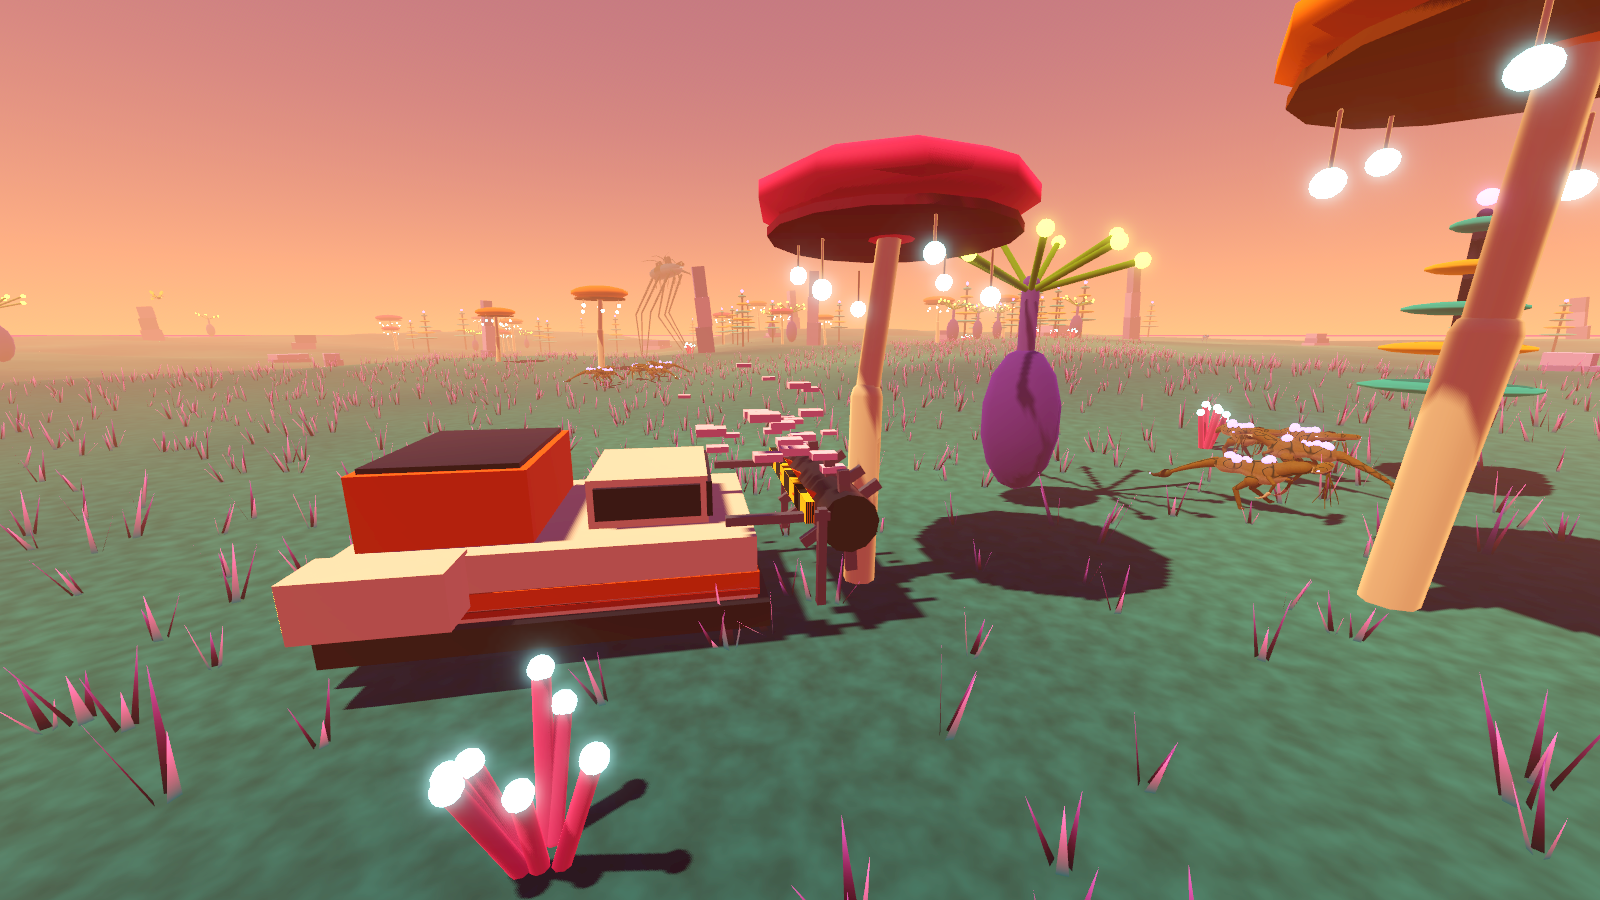
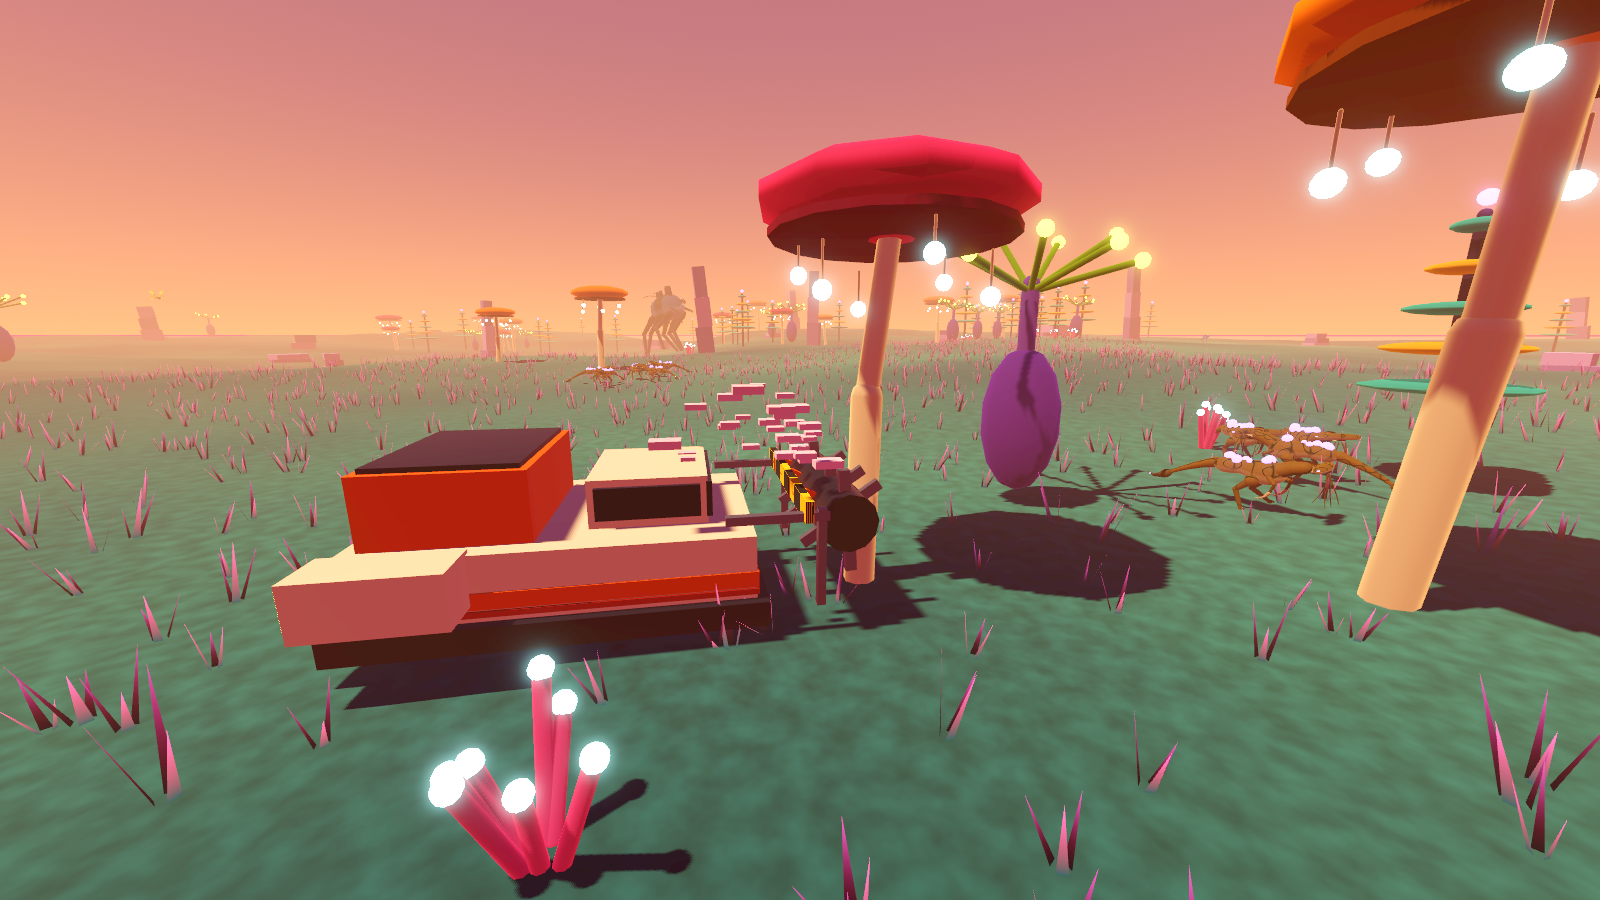
Wildlife: stilt-walker giants get mass instead of poles
Giants' stilts are capped at 1.2 times body length (1.7 for smaller
stilt-walkers), drawn twice as thick with a muscled thigh and an
armoured knee cap, under a heavier hull. Lineup and harvester shots
re-rendered.

diff --git a/prototypes/wildlife/src/Rigs/LeggedRig.cs b/prototypes/wildlife/src/Rigs/LeggedRig.cs
@@ -587,7 +587,7 @@ public sealed class LeggedRig : Rig
         {
             "walkingplant" => null,
             "skitterer" => new[] { (0f, 0.36f, 0.3f, 0f), (0.15f, 0.46f, 0.36f, 0.02f), (0.45f, 0.4f, 0.34f, 0.04f), (0.56f, 0.2f, 0.2f, 0.06f), (0.66f, 0.44f, 0.42f, 0.12f), (0.84f, 0.56f, 0.52f, 0.16f), (1f, 0.36f, 0.34f, 0.12f) },
-            "titanstilt" => new[] { (0f, 0.5f, 0.26f, 0f), (0.5f, 0.64f, 0.34f, 0.04f), (1f, 0.5f, 0.26f, 0f) },
+            "titanstilt" => new[] { (0f, 0.4f, 0.36f, 0f), (0.3f, 0.56f, 0.5f, 0.06f), (0.65f, 0.6f, 0.52f, 0.04f), (1f, 0.46f, 0.4f, 0f) },
             "tripod" => new[] { (0f, 0.42f, 0.42f, 0f), (0.5f, 0.52f, 0.5f, 0.04f), (1f, 0.42f, 0.4f, 0f) },
             "colossus" => new[] { (0f, 0.4f, 0.42f, 0.04f), (0.28f, 0.54f, 0.58f, 0.12f), (0.6f, 0.52f, 0.5f, 0.02f), (0.85f, 0.46f, 0.46f, 0.04f), (1f, 0.36f, 0.36f, 0.02f) },
             _ when hunter || s.Form == "stalker" => new[] { (0f, 0.36f, 0.42f, 0.04f), (0.25f, 0.48f, 0.55f, 0.06f), (0.58f, 0.3f, 0.34f, 0.12f), (0.82f, 0.4f, 0.4f, 0.08f), (1f, 0.3f, 0.3f, 0.06f) },
@@ -639,7 +639,7 @@ public sealed class LeggedRig : Rig
         (float rHip, float rKnee, float rAnkle, float mat) = b.LegStyle switch
         {
             LegStyle.Splayed => (t * 0.6f, t * 0.42f, t * 0.06f, Mat.Carapace),
-            LegStyle.Stilt => (t * 0.62f, t * 0.42f, t * 0.24f, Mat.Skin),
+            LegStyle.Stilt => (t * 0.66f, t * 0.46f, t * 0.3f, Mat.Skin),
             LegStyle.Roots => (t * 0.7f, t * 0.45f, t * 0.2f, Mat.Skin),
             _ => (t * 0.62f, t * 0.36f, t * 0.24f, Mat.Skin),
         };
@@ -648,6 +648,12 @@ public sealed class LeggedRig : Rig
         // A haunch of muscle where an upright leg meets the body.
         if (b.LegStyle == LegStyle.Upright) up.Add(Shape.Sphere, new Vector3(t * 1.5f, t * 1.9f, t * 1.7f), new Vector3(0, upper * 0.12f, 0), k.Base, 1f, 0f, null, 10);
         if (b.LegStyle == LegStyle.Splayed) up.Add(Shape.Sphere, Vector3.One * rKnee * 2.3f, new Vector3(0, upper, 0), k.Base.Darkened(0.2f), 0.3f, 0f, null, 8, Mat.Carapace);
+        // Stilts get a thick muscled thigh at the hip and an armoured knee cap.
+        if (b.LegStyle == LegStyle.Stilt)
+        {
+            up.Add(Shape.Sphere, new Vector3(t * 1.6f, t * 2.6f, t * 1.6f), new Vector3(0, upper * 0.18f, 0), k.Base, 1f, 0f, null, 10);
+            up.Add(Shape.Sphere, Vector3.One * rKnee * 2.4f, new Vector3(0, upper, 0), k.Accent.Lerp(k.Base, 0.5f), 0.2f, 0f, null, 10, Mat.Carapace);
+        }
         layout.Add(up);
         var lo = new Piece($"leg{i}l") { Shadow = b.Size > 1.2f };
         lo.Taper(Vector3.Zero, new Vector3(0, lower, 0), rKnee, rAnkle, legColor.Darkened(0.12f), 0.4f, 0f, mat);

diff --git a/prototypes/wildlife/src/Core/FaunaGenerator.cs b/prototypes/wildlife/src/Core/FaunaGenerator.cs
@@ -184,7 +184,8 @@ public sealed class FaunaGenerator
 
         b.LegThickness = b.LegStyle switch
         {
-            LegStyle.Stilt => b.Width * 0.1f,
+            // Stilts carry real weight: thin poles under a giant read as broken, not menacing.
+            LegStyle.Stilt => b.Width * (form.Plan == BodyPlan.Giant ? 0.2f : 0.13f),
             LegStyle.Splayed => b.Width * 0.11f,
             LegStyle.Roots => b.Width * 0.09f,
             _ => b.Width * 0.25f,
@@ -536,6 +537,12 @@ public static class FaunaQuality
         _ => (0.13f, 0.36f),
     };
 
+    /// <summary>
+    /// Longest legs allowed, as a multiple of body length. Stilts may be long on a small body,
+    /// but a giant on stilts that outreach its own length is a tiny body on poles.
+    /// </summary>
+    public static float MaxLeg(BodyPlan plan, LegStyle style) => style == LegStyle.Stilt ? (plan == BodyPlan.Giant ? 1.2f : 1.7f) : 1.25f;
+
     public static void Clamp(FormDef form, Proportions b)
     {
         float L = b.Size;
@@ -545,8 +552,7 @@ public static class FaunaQuality
         {
             b.Width = Math.Clamp(b.Width, 0.25f * L, 0.8f * L);
             b.Height = Math.Clamp(b.Height, 0.22f * L, 0.75f * L);
-            float maxLeg = b.LegStyle == LegStyle.Stilt ? 2.4f : 1.25f;
-            b.LegLength = Math.Clamp(b.LegLength, 0.25f * L, maxLeg * L);
+            b.LegLength = Math.Clamp(b.LegLength, 0.25f * L, MaxLeg(form.Plan, b.LegStyle) * L);
             b.NeckLength = Math.Min(b.NeckLength, 1.9f * L);
             b.TailLength = Math.Min(b.TailLength, 1.4f * L);
         }
@@ -602,7 +608,7 @@ public static class FaunaQuality
         {
             if (b.Legs % 2 == 1 && form.Legs[0] != form.Legs[1]) problems.Add($"{b.Legs} legs on a form that should have an even number");
             if (b.Legs < 2) problems.Add("a walker with fewer than two legs");
-            if (b.LegLength > (b.LegStyle == LegStyle.Stilt ? 2.4f : 1.25f) * b.Size * 1.001f) problems.Add($"legs {b.LegLength / b.Size:F2} of body length");
+            if (b.LegLength > MaxLeg(s.Plan, b.LegStyle) * b.Size * 1.001f) problems.Add($"legs {b.LegLength / b.Size:F2} of body length");
         }
         if (s.Colors.Pattern == Pattern.Veins && !s.Corrupted && !t.Patterns.Exists(x => x.Id == Pattern.Veins)) problems.Add("veins without the Bloom");
         if (!t.Patterns.Exists(x => x.Id == s.Colors.Pattern) && !s.Corrupted) problems.Add($"pattern {s.Colors.Pattern} is not in the data");
